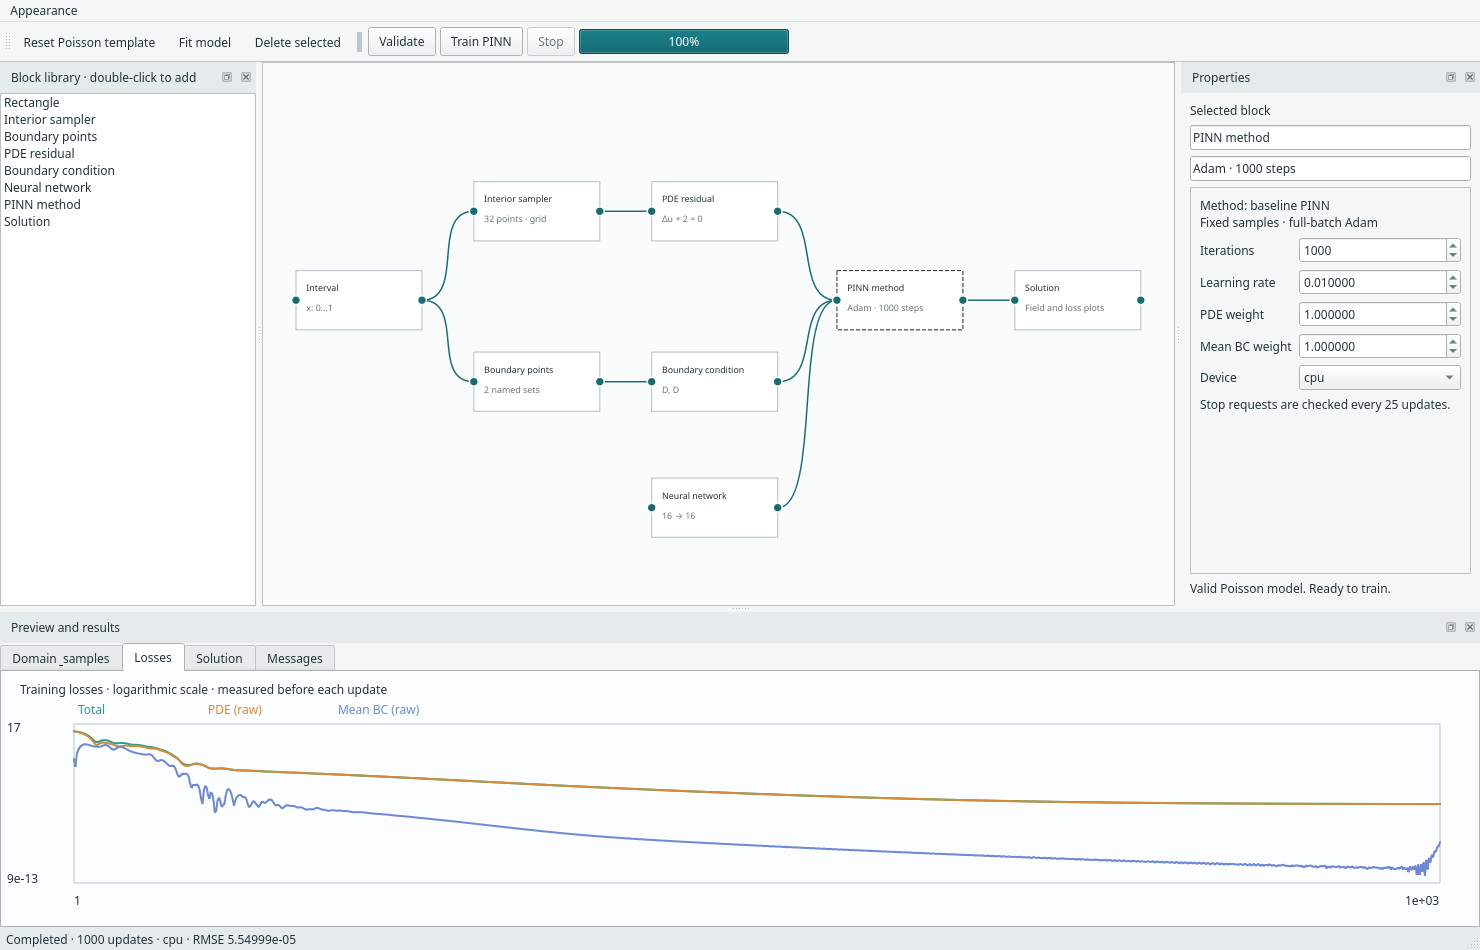
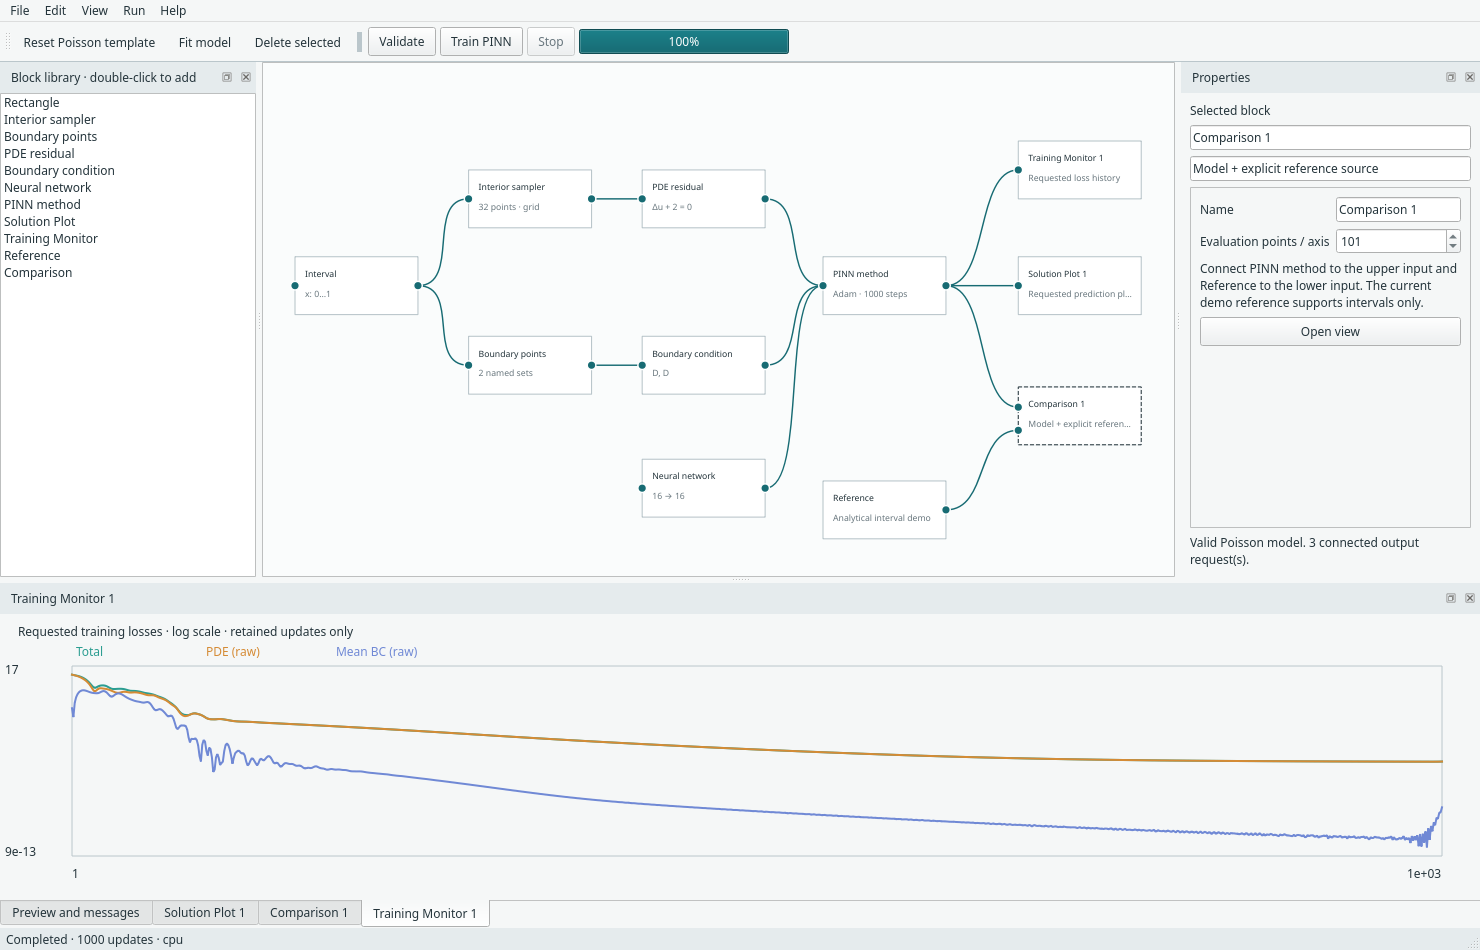
Verify initial layout and document optional output views visually

diff --git a/margam/ui/app.py b/margam/ui/app.py
@@ -290,6 +290,12 @@ class Window(QMainWindow):
         self.statusBar().showMessage('Ready · rectangle Poisson template · select blocks to edit settings')
         QTimer.singleShot(0,self.fit_model)
 
+    def showEvent(self, event):
+        super().showEvent(event)
+        if not getattr(self, '_initial_layout_fitted', False):
+            self._initial_layout_fitted = True
+            QTimer.singleShot(0, self.fit_model)
+
     def setup_menus(self):
         file_menu=self.menuBar().addMenu('File')
         self.load_action.setShortcut('Ctrl+N')
@@ -444,6 +450,7 @@ class Window(QMainWindow):
     def graph_changed(self):
         self.clear_run_data()
         self.output_views.sync(self.scene.nodes())
+        self.refresh_descriptions()
         self.progress_bar.setValue(0)
         self.validation.setText('Graph changed. Validate the model before training.')
 

diff --git a/tests/test_ui.py b/tests/test_ui.py
@@ -17,7 +17,8 @@ assert 'torch' not in sys.modules, 'UI import should not load the numerical engi
 app = QApplication([])
 w = Window()
 w.show()
-app.processEvents()
+for _ in range(3):app.processEvents()
+assert w.view.viewport().rect().contains(w.view.mapFromScene(w.scene.itemsBoundingRect()).boundingRect())
 assert len(w.scene.wires) == 7
 assert not w.output_views.entries
 assert w.tabs.count() == 2
